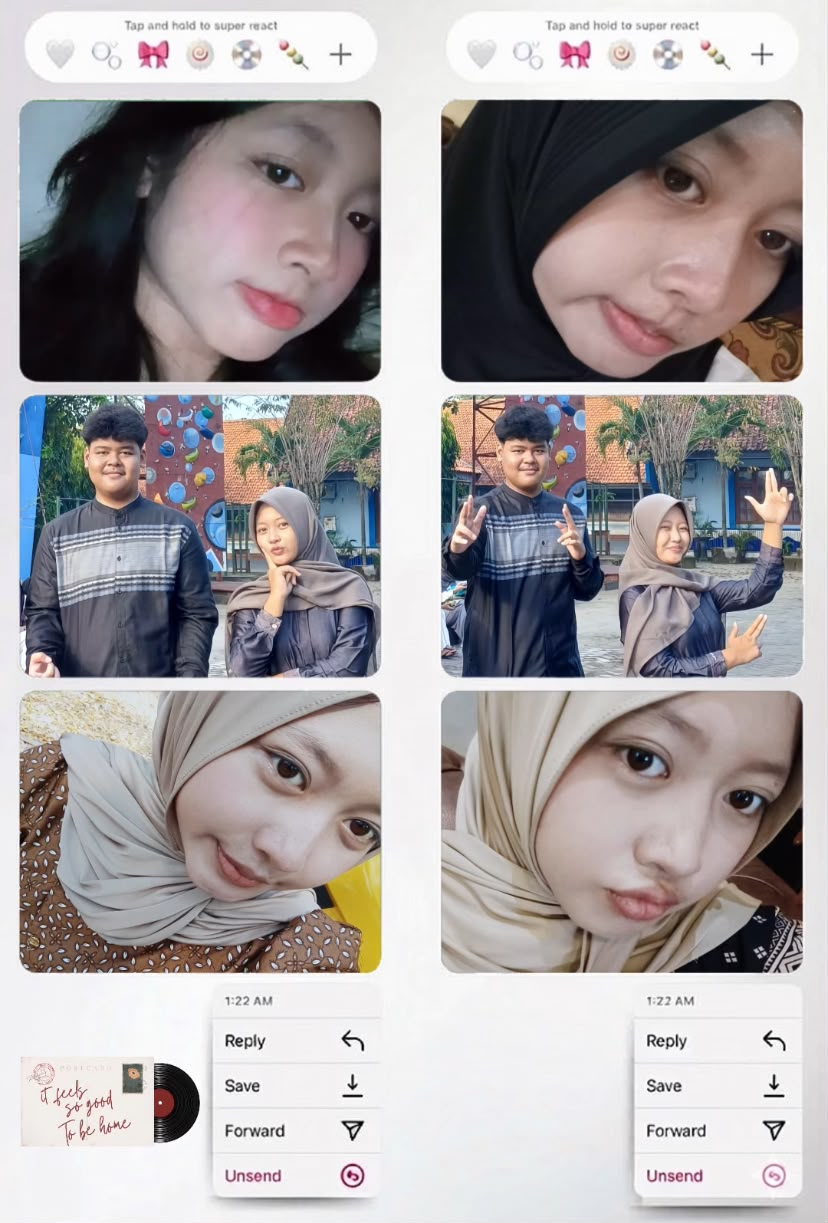
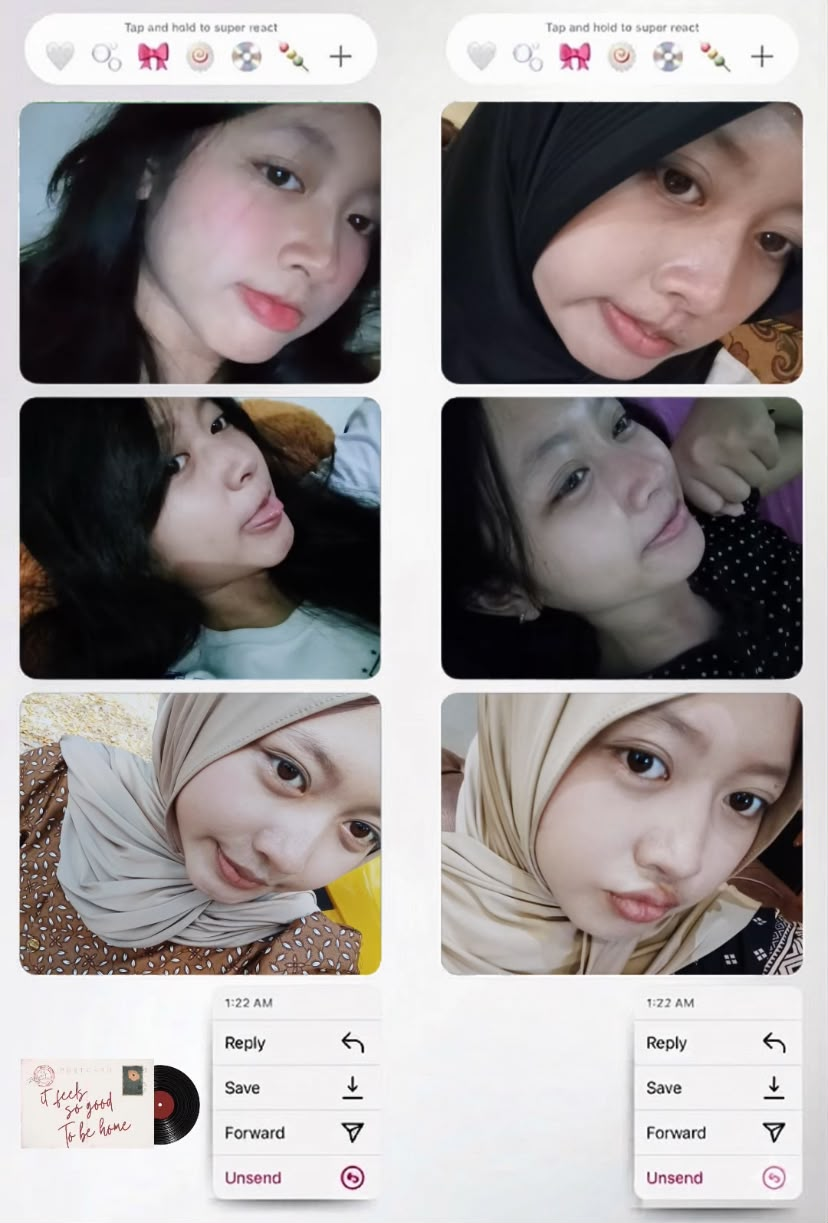
Add files via upload

diff --git a/index.html b/index.html
@@ -585,7 +585,7 @@ body::before {
         </div>
 
         <p style="margin-top:18px;font-size:.9rem;opacity:.7;">
-            Petunjuk: tanggal ulang tahunmu 🎂
+            Petunjuk: tahun kelahiran 🎂
         </p>
 
     </div>
